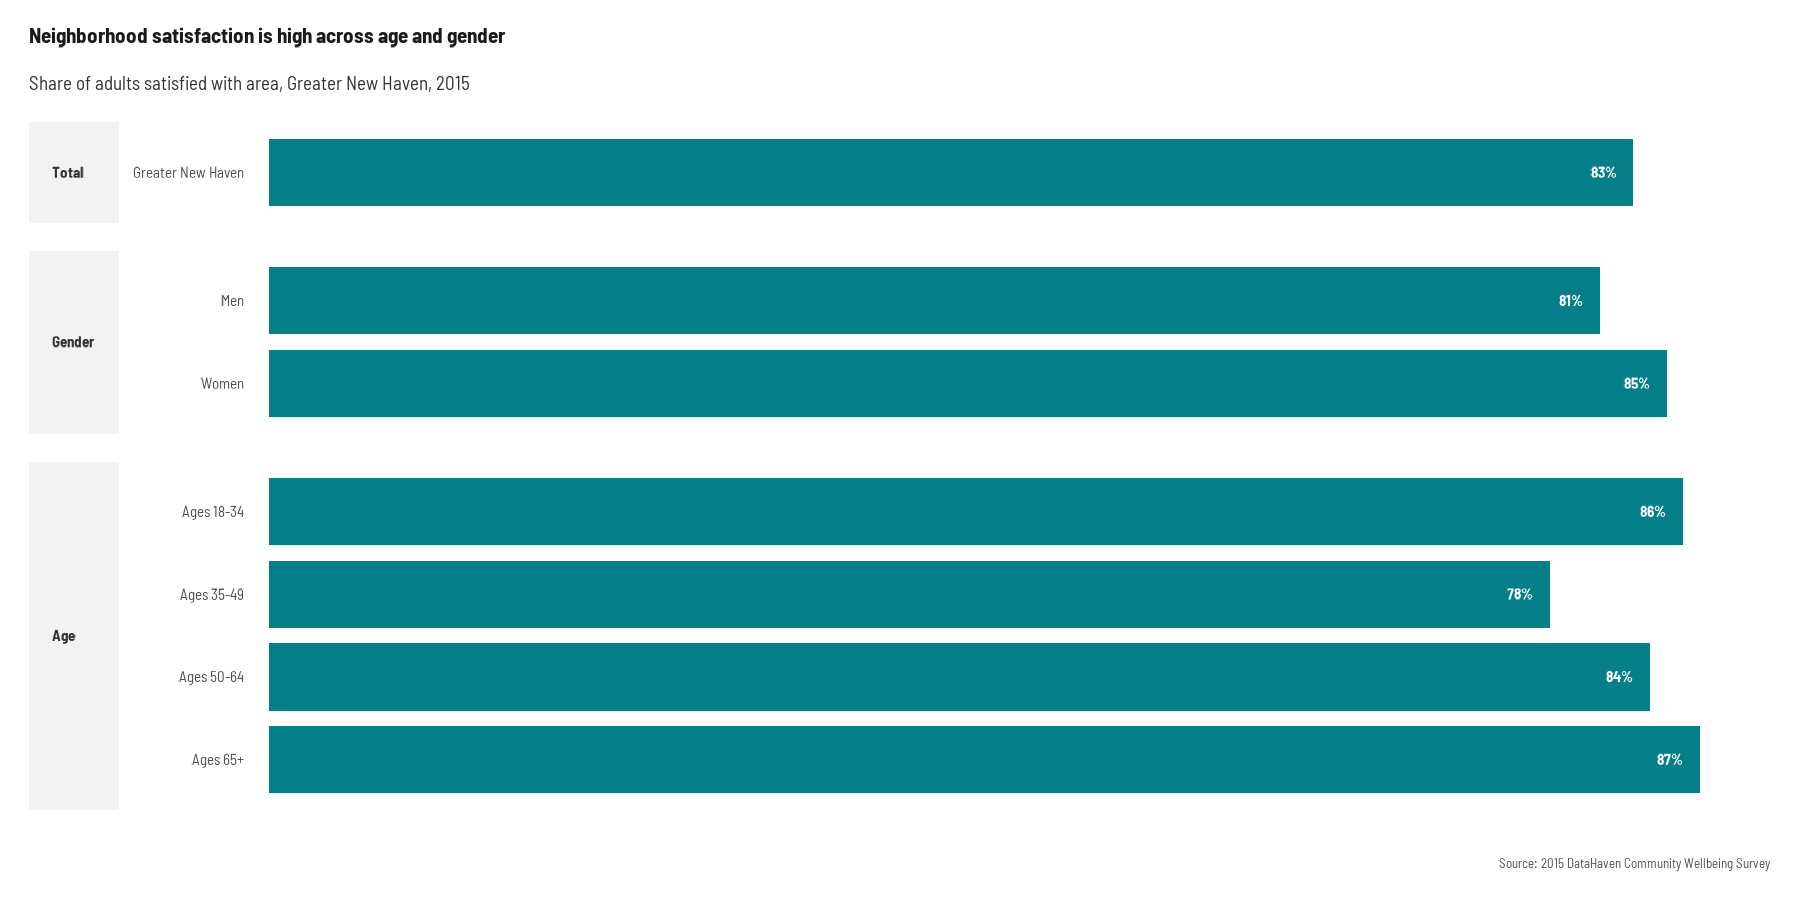
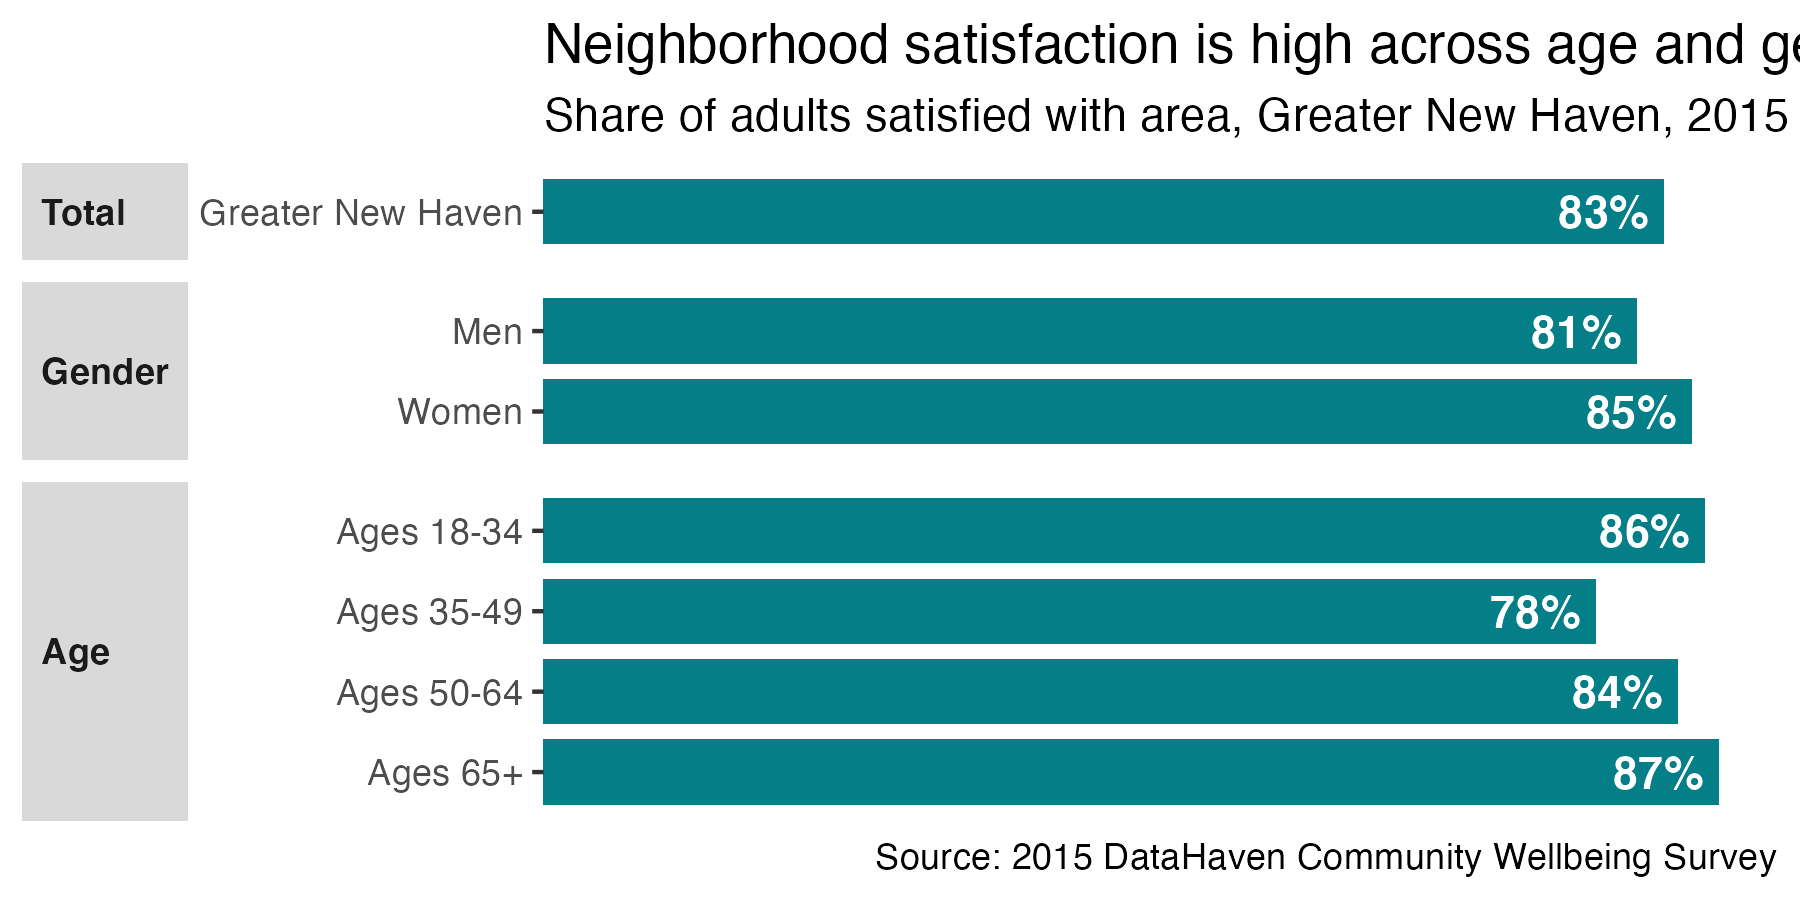
Built site for cwi: 0.2.0@858e92f

diff --git a/articles/crosstabs.html b/articles/crosstabs.html
@@ -262,11 +262,6 @@
 <p>For many questions, what you probably want to report out or display is the share of people who answered yes, or the combination of “strongly agree” &amp; “somewhat agree”.</p>
 <div class="sourceCode" id="cb7"><pre class="downlit sourceCode r">
 <code class="sourceCode R"><span class="kw"><a href="https://rdrr.io/r/base/library.html">library</a></span><span class="op">(</span><span class="va"><a href="https://ggplot2.tidyverse.org">ggplot2</a></span><span class="op">)</span>
-<span class="kw"><a href="https://rdrr.io/r/base/library.html">library</a></span><span class="op">(</span><span class="va"><a href="https://github.com/yixuan/showtext">showtext</a></span><span class="op">)</span>
-<span class="co">#&gt; Loading required package: sysfonts</span>
-<span class="co">#&gt; Loading required package: showtextdb</span>
-<span class="fu">font_add_google</span><span class="op">(</span><span class="st">"Barlow Semi Condensed"</span><span class="op">)</span>
-<span class="fu"><a href="https://rdrr.io/pkg/showtext/man/showtext_auto.html">showtext_auto</a></span><span class="op">(</span><span class="op">)</span>
 
 <span class="va">cws</span> <span class="op">%&gt;%</span>
   <span class="fu"><a href="https://dplyr.tidyverse.org/reference/filter.html">filter</a></span><span class="op">(</span><span class="va">code</span> <span class="op">==</span> <span class="st">"Q1"</span>, <span class="va">category</span> <span class="op">%in%</span> <span class="fu"><a href="https://rdrr.io/r/base/c.html">c</a></span><span class="op">(</span><span class="st">"Greater New Haven"</span>, <span class="st">"Gender"</span>, <span class="st">"Age"</span><span class="op">)</span><span class="op">)</span> <span class="op">%&gt;%</span>
@@ -280,13 +275,14 @@
          lbl <span class="op">=</span> <span class="fu">scales</span><span class="fu">::</span><span class="fu"><a href="https://scales.r-lib.org/reference/label_percent.html">percent</a></span><span class="op">(</span><span class="va">value</span>, accuracy <span class="op">=</span> <span class="fl">1</span><span class="op">)</span><span class="op">)</span> <span class="op">%&gt;%</span>
   <span class="fu"><a href="https://ggplot2.tidyverse.org/reference/ggplot.html">ggplot</a></span><span class="op">(</span><span class="fu"><a href="https://ggplot2.tidyverse.org/reference/aes.html">aes</a></span><span class="op">(</span>x <span class="op">=</span> <span class="fu">forcats</span><span class="fu">::</span><span class="fu"><a href="https://forcats.tidyverse.org/reference/fct_rev.html">fct_rev</a></span><span class="op">(</span><span class="va">group</span><span class="op">)</span>, y <span class="op">=</span> <span class="va">value</span><span class="op">)</span><span class="op">)</span> <span class="op">+</span>
   <span class="fu"><a href="https://ggplot2.tidyverse.org/reference/geom_bar.html">geom_col</a></span><span class="op">(</span>width <span class="op">=</span> <span class="fl">0.8</span>, fill <span class="op">=</span> <span class="st">"#047e87"</span><span class="op">)</span> <span class="op">+</span>
-  <span class="fu"><a href="https://ggplot2.tidyverse.org/reference/geom_text.html">geom_text</a></span><span class="op">(</span><span class="fu"><a href="https://ggplot2.tidyverse.org/reference/aes.html">aes</a></span><span class="op">(</span>label <span class="op">=</span> <span class="va">lbl</span><span class="op">)</span>, hjust <span class="op">=</span> <span class="fl">1</span>, nudge_y <span class="op">=</span> <span class="op">-</span><span class="fl">0.01</span>, fontface <span class="op">=</span> <span class="st">"bold"</span>, family <span class="op">=</span> <span class="st">"Barlow Semi Condensed"</span>, color <span class="op">=</span> <span class="st">"white"</span><span class="op">)</span> <span class="op">+</span>
+  <span class="fu"><a href="https://ggplot2.tidyverse.org/reference/geom_text.html">geom_text</a></span><span class="op">(</span><span class="fu"><a href="https://ggplot2.tidyverse.org/reference/aes.html">aes</a></span><span class="op">(</span>label <span class="op">=</span> <span class="va">lbl</span><span class="op">)</span>, hjust <span class="op">=</span> <span class="fl">1</span>, nudge_y <span class="op">=</span> <span class="op">-</span><span class="fl">0.01</span>, fontface <span class="op">=</span> <span class="st">"bold"</span>, color <span class="op">=</span> <span class="st">"white"</span><span class="op">)</span> <span class="op">+</span>
   <span class="fu"><a href="https://ggplot2.tidyverse.org/reference/scale_continuous.html">scale_y_continuous</a></span><span class="op">(</span>breaks <span class="op">=</span> <span class="cn">NULL</span>, expand <span class="op">=</span> <span class="fu"><a href="https://ggplot2.tidyverse.org/reference/expansion.html">expansion</a></span><span class="op">(</span>mult <span class="op">=</span> <span class="fu"><a href="https://rdrr.io/r/base/c.html">c</a></span><span class="op">(</span><span class="fl">0</span>, <span class="fl">0.05</span><span class="op">)</span><span class="op">)</span><span class="op">)</span> <span class="op">+</span>
   <span class="fu"><a href="https://ggplot2.tidyverse.org/reference/coord_flip.html">coord_flip</a></span><span class="op">(</span><span class="op">)</span> <span class="op">+</span>
   <span class="fu"><a href="https://ggplot2.tidyverse.org/reference/facet_grid.html">facet_grid</a></span><span class="op">(</span>rows <span class="op">=</span> <span class="fu"><a href="https://ggplot2.tidyverse.org/reference/vars.html">vars</a></span><span class="op">(</span><span class="va">category</span><span class="op">)</span>, scales <span class="op">=</span> <span class="st">"free_y"</span>, space <span class="op">=</span> <span class="st">"free_y"</span>, switch <span class="op">=</span> <span class="st">"y"</span><span class="op">)</span> <span class="op">+</span>
-  <span class="fu">camiller</span><span class="fu">::</span><span class="fu"><a href="https://camille-s.github.io/camiller/reference/theme_din.html">theme_din</a></span><span class="op">(</span>base_family <span class="op">=</span> <span class="st">"Barlow Semi Condensed"</span>, ygrid <span class="op">=</span> <span class="cn">FALSE</span><span class="op">)</span> <span class="op">+</span>
   <span class="fu"><a href="https://ggplot2.tidyverse.org/reference/theme.html">theme</a></span><span class="op">(</span>strip.placement <span class="op">=</span> <span class="st">"outside"</span>,
-        strip.text.y.left <span class="op">=</span> <span class="fu"><a href="https://ggplot2.tidyverse.org/reference/element.html">element_text</a></span><span class="op">(</span>angle <span class="op">=</span> <span class="fl">0</span>, hjust <span class="op">=</span> <span class="fl">0</span>, face <span class="op">=</span> <span class="st">"bold"</span><span class="op">)</span><span class="op">)</span> <span class="op">+</span>
+        strip.text.y.left <span class="op">=</span> <span class="fu"><a href="https://ggplot2.tidyverse.org/reference/element.html">element_text</a></span><span class="op">(</span>angle <span class="op">=</span> <span class="fl">0</span>, hjust <span class="op">=</span> <span class="fl">0</span>, face <span class="op">=</span> <span class="st">"bold"</span><span class="op">)</span>,
+        panel.grid <span class="op">=</span> <span class="fu"><a href="https://ggplot2.tidyverse.org/reference/element.html">element_blank</a></span><span class="op">(</span><span class="op">)</span>,
+        panel.background <span class="op">=</span> <span class="fu"><a href="https://ggplot2.tidyverse.org/reference/element.html">element_blank</a></span><span class="op">(</span><span class="op">)</span><span class="op">)</span> <span class="op">+</span>
   <span class="fu"><a href="https://ggplot2.tidyverse.org/reference/labs.html">labs</a></span><span class="op">(</span>x <span class="op">=</span> <span class="cn">NULL</span>, y <span class="op">=</span> <span class="cn">NULL</span>, 
        title <span class="op">=</span> <span class="st">"Neighborhood satisfaction is high across age and gender"</span>,
        subtitle <span class="op">=</span> <span class="st">"Share of adults satisfied with area, Greater New Haven, 2015"</span>,
@@ -344,14 +340,15 @@
   <span class="fu"><a href="https://dplyr.tidyverse.org/reference/filter.html">filter</a></span><span class="op">(</span><span class="va">category</span> <span class="op">%in%</span> <span class="fu"><a href="https://rdrr.io/r/base/c.html">c</a></span><span class="op">(</span><span class="st">"Total"</span>, <span class="st">"Age"</span>, <span class="st">"Race/Ethnicity"</span><span class="op">)</span><span class="op">)</span> <span class="op">%&gt;%</span>
   <span class="fu"><a href="https://ggplot2.tidyverse.org/reference/ggplot.html">ggplot</a></span><span class="op">(</span><span class="fu"><a href="https://ggplot2.tidyverse.org/reference/aes.html">aes</a></span><span class="op">(</span>x <span class="op">=</span> <span class="fu">forcats</span><span class="fu">::</span><span class="fu"><a href="https://forcats.tidyverse.org/reference/fct_rev.html">fct_rev</a></span><span class="op">(</span><span class="va">group</span><span class="op">)</span>, y <span class="op">=</span> <span class="va">value</span><span class="op">)</span><span class="op">)</span> <span class="op">+</span>
   <span class="fu"><a href="https://ggplot2.tidyverse.org/reference/geom_bar.html">geom_col</a></span><span class="op">(</span>width <span class="op">=</span> <span class="fl">0.8</span>, fill <span class="op">=</span> <span class="st">"#047e87"</span><span class="op">)</span> <span class="op">+</span>
-  <span class="fu"><a href="https://ggplot2.tidyverse.org/reference/geom_text.html">geom_text</a></span><span class="op">(</span><span class="fu"><a href="https://ggplot2.tidyverse.org/reference/aes.html">aes</a></span><span class="op">(</span>label <span class="op">=</span> <span class="va">lbl</span><span class="op">)</span>, hjust <span class="op">=</span> <span class="fl">1</span>, nudge_y <span class="op">=</span> <span class="op">-</span><span class="fl">0.01</span>, fontface <span class="op">=</span> <span class="st">"bold"</span>, family <span class="op">=</span> <span class="st">"Barlow Semi Condensed"</span>, color <span class="op">=</span> <span class="st">"white"</span><span class="op">)</span> <span class="op">+</span>
+  <span class="fu"><a href="https://ggplot2.tidyverse.org/reference/geom_text.html">geom_text</a></span><span class="op">(</span><span class="fu"><a href="https://ggplot2.tidyverse.org/reference/aes.html">aes</a></span><span class="op">(</span>label <span class="op">=</span> <span class="va">lbl</span><span class="op">)</span>, hjust <span class="op">=</span> <span class="fl">1</span>, nudge_y <span class="op">=</span> <span class="op">-</span><span class="fl">0.01</span>, fontface <span class="op">=</span> <span class="st">"bold"</span>, color <span class="op">=</span> <span class="st">"white"</span><span class="op">)</span> <span class="op">+</span>
   <span class="fu"><a href="https://ggplot2.tidyverse.org/reference/scale_continuous.html">scale_y_continuous</a></span><span class="op">(</span>breaks <span class="op">=</span> <span class="cn">NULL</span>, expand <span class="op">=</span> <span class="fu"><a href="https://ggplot2.tidyverse.org/reference/expansion.html">expansion</a></span><span class="op">(</span>mult <span class="op">=</span> <span class="fu"><a href="https://rdrr.io/r/base/c.html">c</a></span><span class="op">(</span><span class="fl">0</span>, <span class="fl">0.05</span><span class="op">)</span><span class="op">)</span><span class="op">)</span> <span class="op">+</span>
   <span class="fu"><a href="https://ggplot2.tidyverse.org/reference/coord_flip.html">coord_flip</a></span><span class="op">(</span><span class="op">)</span> <span class="op">+</span>
   <span class="fu"><a href="https://ggplot2.tidyverse.org/reference/facet_grid.html">facet_grid</a></span><span class="op">(</span>rows <span class="op">=</span> <span class="fu"><a href="https://ggplot2.tidyverse.org/reference/vars.html">vars</a></span><span class="op">(</span><span class="va">category</span><span class="op">)</span>, cols <span class="op">=</span> <span class="fu"><a href="https://ggplot2.tidyverse.org/reference/vars.html">vars</a></span><span class="op">(</span><span class="va">indicator</span><span class="op">)</span>, scales <span class="op">=</span> <span class="st">"free"</span>, space <span class="op">=</span> <span class="st">"free_y"</span>, switch <span class="op">=</span> <span class="st">"y"</span><span class="op">)</span> <span class="op">+</span>
-  <span class="fu">camiller</span><span class="fu">::</span><span class="fu"><a href="https://camille-s.github.io/camiller/reference/theme_din.html">theme_din</a></span><span class="op">(</span>base_family <span class="op">=</span> <span class="st">"Barlow Semi Condensed"</span>, ygrid <span class="op">=</span> <span class="cn">FALSE</span><span class="op">)</span> <span class="op">+</span>
   <span class="fu"><a href="https://ggplot2.tidyverse.org/reference/theme.html">theme</a></span><span class="op">(</span>strip.placement <span class="op">=</span> <span class="st">"outside"</span>,
         strip.text.y.left <span class="op">=</span> <span class="fu"><a href="https://ggplot2.tidyverse.org/reference/element.html">element_text</a></span><span class="op">(</span>angle <span class="op">=</span> <span class="fl">0</span>, hjust <span class="op">=</span> <span class="fl">0</span><span class="op">)</span>,
-        strip.text <span class="op">=</span> <span class="fu"><a href="https://ggplot2.tidyverse.org/reference/element.html">element_text</a></span><span class="op">(</span>face <span class="op">=</span> <span class="st">"bold"</span><span class="op">)</span><span class="op">)</span> <span class="op">+</span>
+        strip.text <span class="op">=</span> <span class="fu"><a href="https://ggplot2.tidyverse.org/reference/element.html">element_text</a></span><span class="op">(</span>face <span class="op">=</span> <span class="st">"bold"</span><span class="op">)</span>,
+        panel.grid <span class="op">=</span> <span class="fu"><a href="https://ggplot2.tidyverse.org/reference/element.html">element_blank</a></span><span class="op">(</span><span class="op">)</span>,
+        panel.background <span class="op">=</span> <span class="fu"><a href="https://ggplot2.tidyverse.org/reference/element.html">element_blank</a></span><span class="op">(</span><span class="op">)</span><span class="op">)</span> <span class="op">+</span>
   <span class="fu"><a href="https://ggplot2.tidyverse.org/reference/labs.html">labs</a></span><span class="op">(</span>x <span class="op">=</span> <span class="cn">NULL</span>, y <span class="op">=</span> <span class="cn">NULL</span>,
        title <span class="op">=</span> <span class="st">"Neighborhood satisfaction is high, even when government feels unresponsive"</span>,
        subtitle <span class="op">=</span> <span class="st">"Share of adults, Greater New Haven, 2015"</span>,
